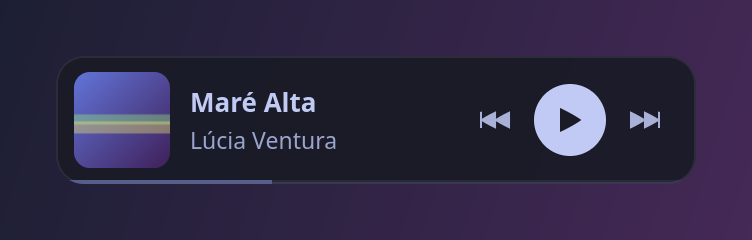
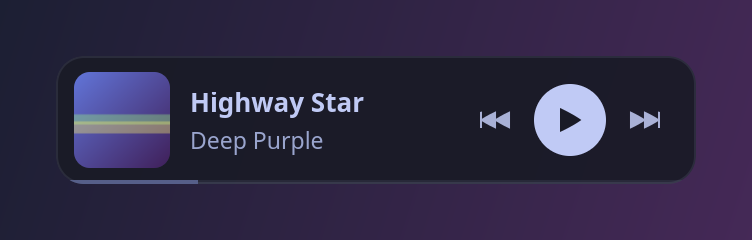
docs: capturas com exemplos de rock
Também espera mais antes de capturar: com 900 ms o widget saía vazio.

Changed region(s): [[0.2447, 0.3792, 0.4894, 0.4958], [0.2447, 0.5542, 0.4588, 0.6417], [0.2447, 0.7292, 0.367, 0.7875]]

diff --git a/scripts/make_screenshots.py b/scripts/make_screenshots.py
@@ -1,4 +1,4 @@
-"""Gera as imagens do README com dados fictícios (músicas, artistas, playlists e capas inventados).
+"""Gera as imagens do README com dados de exemplo (músicas de rock conhecidas; playlists e capas inventadas).
 
     python3 scripts/make_screenshots.py [pasta]     # padrão: docs/screenshots
 
@@ -47,24 +47,24 @@ SCALE = 2          # imagens em 2x para ficarem nítidas
 PAD = 28           # moldura ao redor do widget
 BG = ((0.11, 0.12, 0.20), (0.27, 0.16, 0.34))  # degradê do "papel de parede"
 
-NOW = Track("spotify:track:fake01", "Maré Alta", "Lúcia Ventura", "Litoral", 242_000, "art:1")
+NOW = Track("spotify:track:fake01", "Highway Star", "Deep Purple", "Machine Head", 365_000, "art:1")
 PLAYLISTS = [
     Playlist("spotify:user:fake:collection", "Músicas Curtidas", "Sua biblioteca", None),
-    Playlist("spotify:playlist:p1", "Bossa ao entardecer", "marina.s", "art:2"),
-    Playlist("spotify:playlist:p2", "Foco profundo", "lofi.lab", "art:3"),
-    Playlist("spotify:playlist:p3", "Estrada 2026", "joao.p", "art:4"),
-    Playlist("spotify:playlist:p4", "Indie da semana", "radar", "art:5"),
-    Playlist("spotify:playlist:p5", "Lo-fi para codar", "devbeats", "art:6"),
-    Playlist("spotify:playlist:p6", "Clássicos de garagem", "pedro.r", "art:7"),
+    Playlist("spotify:playlist:p1", "Rock Clássico", "rockzone", "art:2"),
+    Playlist("spotify:playlist:p2", "Hard Rock dos Anos 80", "pedro.r", "art:3"),
+    Playlist("spotify:playlist:p3", "Grunge Anos 90", "seattle.fm", "art:4"),
+    Playlist("spotify:playlist:p4", "Rock Nacional", "radar", "art:5"),
+    Playlist("spotify:playlist:p5", "Riffs para codar", "devbeats", "art:6"),
+    Playlist("spotify:playlist:p6", "Estrada e Guitarra", "joao.p", "art:7"),
 ]
-QUERY = "maré"
+QUERY = "highway"
 RESULTS = [
     NOW,
-    Track("spotify:track:fake02", "Maré Cheia", "Os Faroleiros", "", 214_000, "art:8"),
-    Track("spotify:track:fake03", "Sob a Maré", "Lúcia Ventura, Duo Areia", "", 167_000, "art:9"),
-    Track("spotify:track:fake04", "Maré de Março", "Banda Coral", "", 176_000, "art:10"),
-    Track("spotify:track:fake05", "Maré Mansa", "Trio Atlântico", "", 198_000, "art:11"),
-    Track("spotify:track:fake06", "Contra a Maré", "Noite Clara", "", 231_000, "art:12"),
+    Track("spotify:track:fake02", "Highway to Hell", "AC/DC", "", 208_000, "art:8"),
+    Track("spotify:track:fake03", "Life Is a Highway", "Tom Cochrane", "", 266_000, "art:9"),
+    Track("spotify:track:fake04", "Highway Tune", "Greta Van Fleet", "", 276_000, "art:10"),
+    Track("spotify:track:fake05", "Lost Highway", "Bon Jovi", "", 233_000, "art:11"),
+    Track("spotify:track:fake06", "Highway Chile", "The Jimi Hendrix Experience", "", 212_000, "art:12"),
 ]
 
 
@@ -176,7 +176,7 @@ def widget_shots(out: Path, done) -> None:
         done()
         return False
 
-    GLib.timeout_add(900, step1)
+    GLib.timeout_add(2500, step1)  # com menos tempo o compositor ainda não desenhou e a imagem sai vazia
 
 
 def setup_shots(out: Path, done) -> None:
